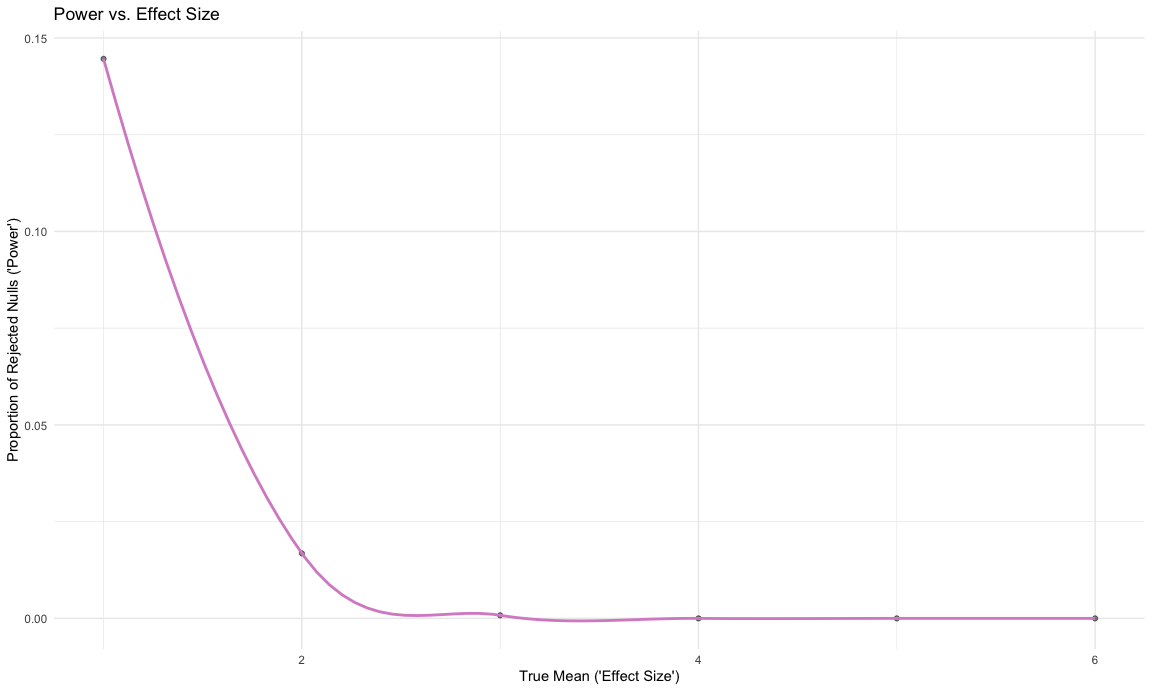
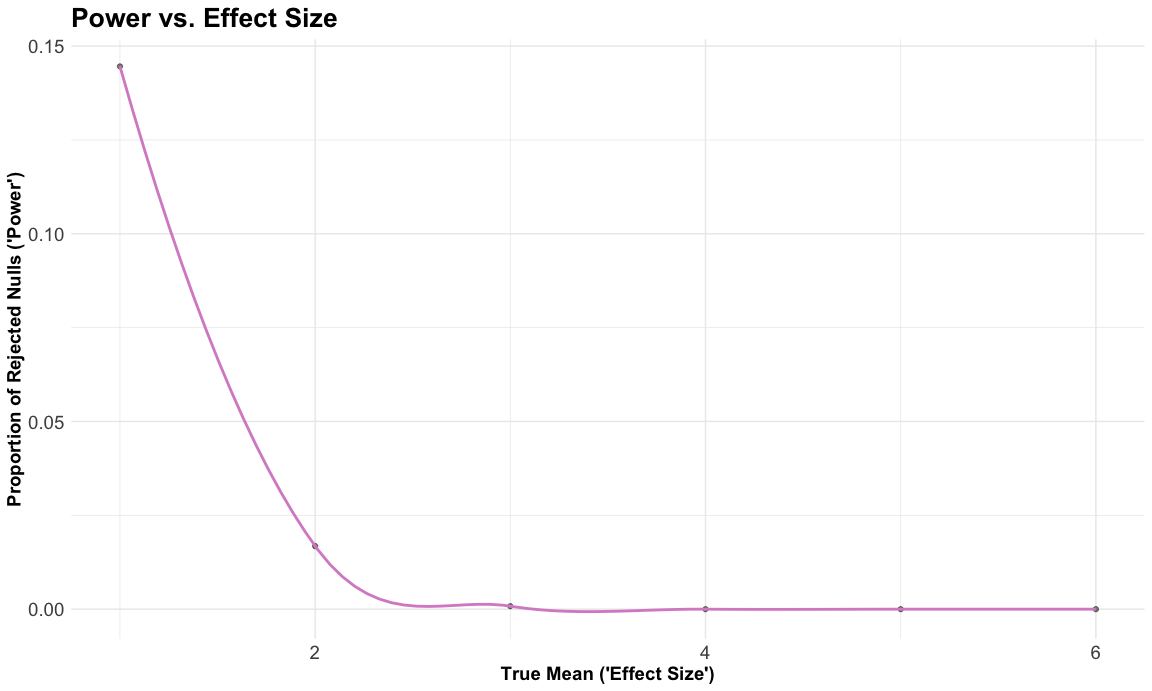
finished second/third plot for P3 (true mean vs. average mean estimate for all vs. only rejected null samples)

diff --git a/p8105_hw5_amz2148.md b/p8105_hw5_amz2148.md
@@ -386,6 +386,9 @@ iter_results_plot =
   ggplot(aes(x = true_mean, y = prop_reject)) + 
   geom_point(alpha = .5, color = "black") +
   geom_smooth(se = FALSE, color = "#d98fcc") + 
+  theme(plot.title = element_text(size = 20, face = "bold")) +
+  theme(axis.text = element_text(size = 14)) + 
+  theme(axis.title = element_text(size = 14, face = "bold")) + 
   labs(
       title = "Power vs. Effect Size",
       x = "True Mean ('Effect Size')",
@@ -411,6 +414,114 @@ iter_results_plot
     second plot with the average estimate of mu-hat only in samples for
     which the null was rejected on the y axis and the true value of mu
     on the x axis.
+
+``` r
+mu_plot = 
+  iter_results_df %>% 
+  group_by(true_mean) %>% 
+  summarize(average_mu_estimate = (mean(estimate))) %>% 
+  ggplot(aes(x = true_mean, y = average_mu_estimate)) + 
+  geom_point(alpha = .5, color = "black") +
+  geom_smooth(se = FALSE, color = "#d98fcc") + 
+  ylim(1, 6) +
+  theme(plot.title = element_text(size = 14, face = "bold")) +
+  theme(axis.text = element_text(size = 12)) + 
+  theme(axis.title = element_text(size = 12, face = "bold")) + 
+  labs(
+      title = "Average Mean Estimate vs. True Mean",
+      x = "True Mean",
+      y = "Average Esimated Mean")
+
+mu_plot
+```
+
+    ## `geom_smooth()` using method = 'loess' and formula = 'y ~ x'
+
+    ## Warning: Removed 2 rows containing non-finite values (`stat_smooth()`).
+
+    ## Warning in simpleLoess(y, x, w, span, degree = degree, parametric =
+    ## parametric, : span too small. fewer data values than degrees of freedom.
+
+    ## Warning in simpleLoess(y, x, w, span, degree = degree, parametric =
+    ## parametric, : pseudoinverse used at 1.985
+
+    ## Warning in simpleLoess(y, x, w, span, degree = degree, parametric =
+    ## parametric, : neighborhood radius 2.015
+
+    ## Warning in simpleLoess(y, x, w, span, degree = degree, parametric =
+    ## parametric, : reciprocal condition number 0
+
+    ## Warning in simpleLoess(y, x, w, span, degree = degree, parametric =
+    ## parametric, : There are other near singularities as well. 4.0602
+
+    ## Warning: Removed 2 rows containing missing values (`geom_point()`).
+
+<img src="p8105_hw5_amz2148_files/figure-gfm/graph2-1.png" width="100%" />
+
+``` r
+mu_rejected_plot = 
+  iter_results_df %>% 
+  filter(p_value <= 0.05) %>% 
+  group_by(true_mean) %>% 
+  summarize(average_mu_estimate = (mean(estimate))) %>% 
+  ggplot(aes(x = true_mean, y = average_mu_estimate)) + 
+  geom_point(alpha = .5, color = "black") +
+  geom_smooth(se = FALSE, color = "#d98fcc") + 
+  ylim(1, 6) +
+  theme(plot.title = element_text(size = 14, face = "bold")) +
+  theme(axis.text = element_text(size = 12)) + 
+  theme(axis.title = element_text(size = 12, face = "bold")) + 
+  labs(
+      title = "Average Mean Estimate vs. True Mean for Null-Rejected Samples",
+      x = "True Mean",
+      y = "Average Esimated Mean (Null-Rejected Samples Only)")
+
+mu_plot + mu_rejected_plot
+```
+
+    ## `geom_smooth()` using method = 'loess' and formula = 'y ~ x'
+
+    ## Warning: Removed 2 rows containing non-finite values (`stat_smooth()`).
+
+    ## Warning in simpleLoess(y, x, w, span, degree = degree, parametric =
+    ## parametric, : span too small. fewer data values than degrees of freedom.
+
+    ## Warning in simpleLoess(y, x, w, span, degree = degree, parametric =
+    ## parametric, : pseudoinverse used at 1.985
+
+    ## Warning in simpleLoess(y, x, w, span, degree = degree, parametric =
+    ## parametric, : neighborhood radius 2.015
+
+    ## Warning in simpleLoess(y, x, w, span, degree = degree, parametric =
+    ## parametric, : reciprocal condition number 0
+
+    ## Warning in simpleLoess(y, x, w, span, degree = degree, parametric =
+    ## parametric, : There are other near singularities as well. 4.0602
+
+    ## Warning: Removed 2 rows containing missing values (`geom_point()`).
+
+    ## `geom_smooth()` using method = 'loess' and formula = 'y ~ x'
+
+    ## Warning: Removed 1 rows containing non-finite values (`stat_smooth()`).
+
+    ## Warning in simpleLoess(y, x, w, span, degree = degree, parametric =
+    ## parametric, : span too small. fewer data values than degrees of freedom.
+
+    ## Warning in simpleLoess(y, x, w, span, degree = degree, parametric =
+    ## parametric, : pseudoinverse used at 0.98
+
+    ## Warning in simpleLoess(y, x, w, span, degree = degree, parametric =
+    ## parametric, : neighborhood radius 2.02
+
+    ## Warning in simpleLoess(y, x, w, span, degree = degree, parametric =
+    ## parametric, : reciprocal condition number 0
+
+    ## Warning in simpleLoess(y, x, w, span, degree = degree, parametric =
+    ## parametric, : There are other near singularities as well. 4.0804
+
+    ## Warning: Removed 1 rows containing missing values (`geom_point()`).
+
+<img src="p8105_hw5_amz2148_files/figure-gfm/graph2-2.png" width="100%" />
 
 Is the sample average of mu-hat across tests for which the null is
 rejected approximately equal to the true value of mu? Why or why not?
